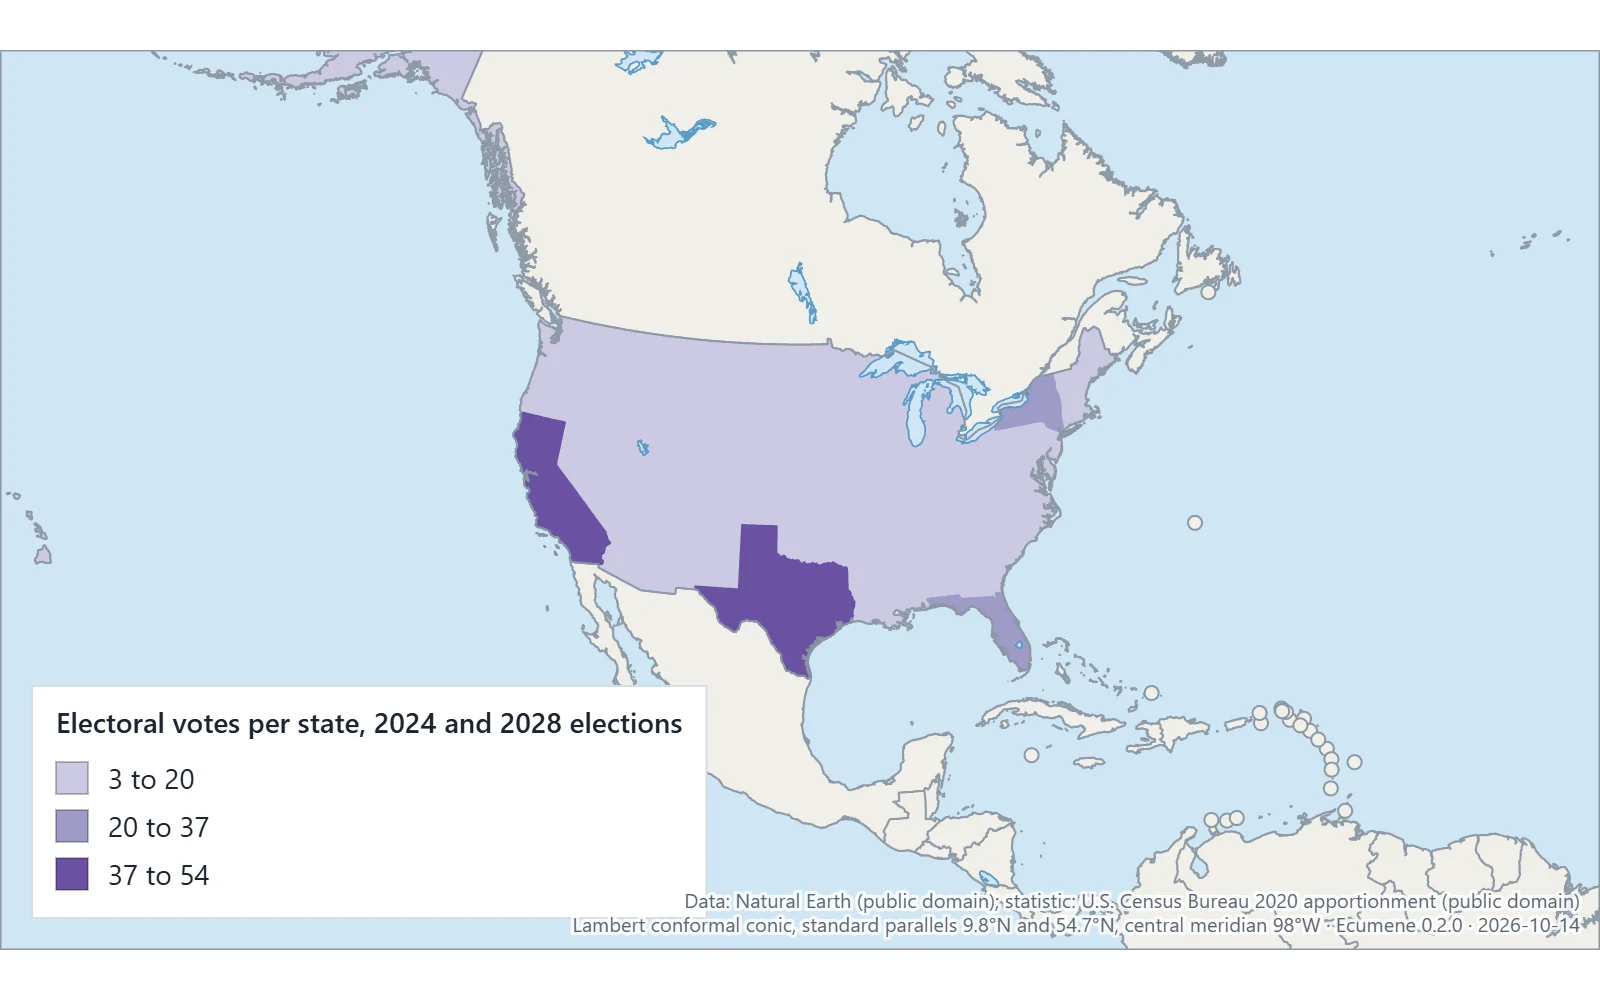
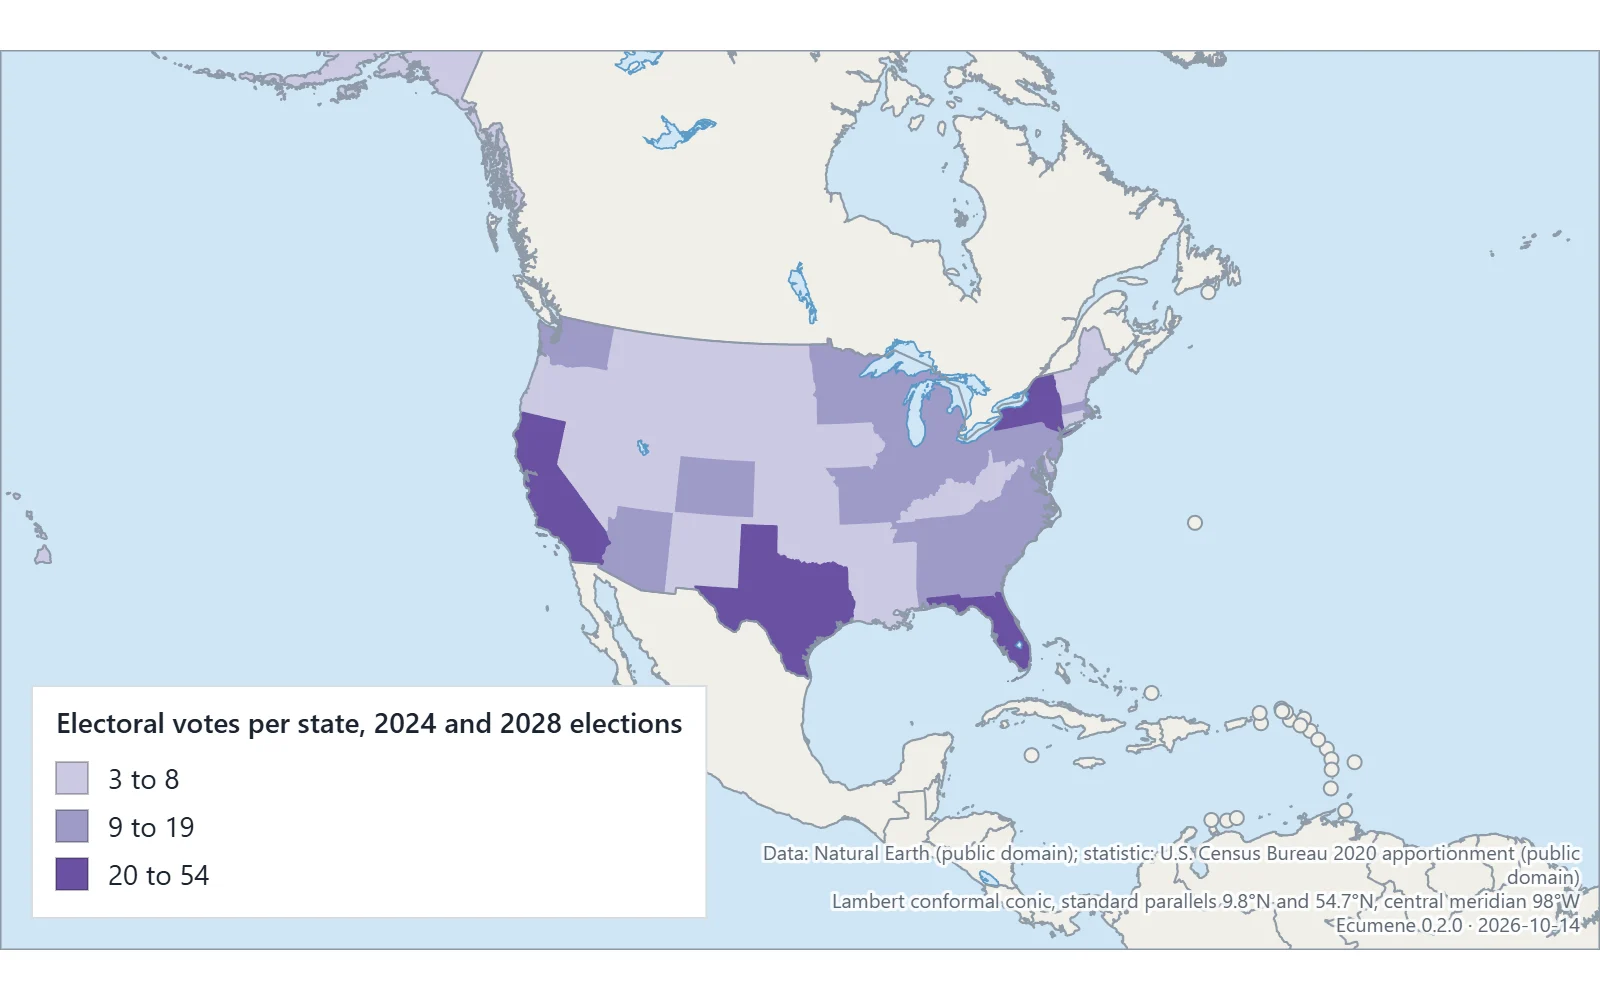
Gallery: electoral and life expectancy examples in natural breaks

diff --git a/scripts/make_examples.js b/scripts/make_examples.js
@@ -88,10 +88,10 @@ const EXAMPLES = {
     await view(page, [3.2, -54.4], 8.2);
     return { mode: 'draw', export: { proj: 'lcc', area: 'screen', width: 800 } };
   },
-  // Electoral votes per state (2020 apportionment, checked against the Census table): a statistic, five classes.
+  // Electoral votes per state (2020 apportionment, checked against the Census table): a statistic, three classes by natural breaks.
   async electoral(page) {
     // three equal classes give whole-number edges (3 to 20, 20 to 37, 37 to 54)
-    await statistic(page, 'ev', null, 'Purples', 'equal', 3);
+    await statistic(page, 'ev', null, 'Purples', 'jenks', 3);
     await view(page, [98, -38.5], 2.35);
     return { mode: 'data', export: { proj: 'lcc', area: 'screen', width: 800 } };
   },
@@ -219,7 +219,7 @@ const EXAMPLES = {
 
 const Ecu = require('../src/groups.js');
 /** Color by a statistic in the Data panel: choose it, pick the year ('auto' = the default) and the scale. */
-async function statistic(page, value, year, scale, method = 'equal', classes = 5) {
+async function statistic(page, value, year, scale, method = 'jenks', classes = 5) {
   await mode(page, 'data');
   await page.selectOption('#dst', value);
   if (year) {

diff --git a/HANDOFF.md b/HANDOFF.md
@@ -72,7 +72,7 @@ Conventions: modules share state only through `app`; UI panels re-render on even
 - Continents follow the UN Statistics Division's M49 classification (Ari's decision, 14 Oct 2026: broad diplomatic and geographic consensus over intuition). M49 has one Americas region; its sub-regions split it here (South America is its South America intermediate region; Northern America, Central America and the Caribbean are North America). `scripts/check_groups.js` compares every map place that has an ISO code with M49 (247 agree). Changes made to match it: Cyprus to Asia (Western Asia in M49, though an EU member), with Northern Cyprus, the buffer zone, Akrotiri and Dhekelia, which M49 does not list but which share the island; South Georgia to South America, Heard and McDonald Islands to Oceania, the French Southern and Antarctic Lands to Africa, so Antarctica is the continent alone. Places M49 does not list keep the continent of the land around them: Kosovo, Taiwan, Somaliland, Siachen Glacier, the Spratly Is., Scarborough Reef, Bajo Nuevo and Serranilla Banks, Clipperton, the Coral Sea Is. and the Indian Ocean Territories. Natural Earth's own `CONTINENT` field was also compared: it leaves many island territories as "Seven seas (open ocean)" with no continent, so it is not used. The UN page's terms allow personal use only; the classification is used as a fact and nothing is copied from the page.
 - Statistics (#13): the Data panel's Statistic menu. World Bank indicators (World Development Indicators, CC BY 4.0, 12 listed in `scripts/sources/stat-worldbank.json`, each with its own code, title and who collected it; all are CC BY 4.0 in the World Bank's series metadata) are fetched live from `api.worldbank.org` in the browser when one is chosen, one request for the last 15 years. The editor makes requests to other sites only on a person's choice: this one, and reading a Google Sheets link (see Your own data); the panel says so. Nothing is bundled and the build needs no update. The map saves what it used, `st: {k:'wb', c: code, y: year or 'latest', t: date fetched, v: {ISO3: value}, ys?: {ISO3: year}}` (values rounded to 7 significant digits), so reopening or sharing a map code never changes its numbers and never touches the network; "Fetch again" is the only refresh. Year menu: the default is the latest year where at least 90% of the best year's countries have a value; "Most recent for each country" uses each country's latest value and the legend title and credit say "most recent available, 2021–2024". Matching uses ISO alpha-3 codes: `src/iso.js` (generated by `scripts/build_iso.js` from Natural Earth's admin-0 table and committed) maps each code to the map country's id, which is its ISO numeric code, plus the overseas parts split from France and the Netherlands; Kosovo (World Bank code XKX) is matched by name; Ashmore and Cartier Is. shares Australia's numeric id and takes no code. A country without a value is painted `NO_DATA_PAINT` (grey with fine dots) with a "No data" legend entry unless "Mark countries with no data" is off (saved as `ds.nd`). The World Bank's figure for France includes its overseas departments, so French Guiana and the others show no data while France's value still counts them; Taiwan, Western Sahara and some others have no World Bank data. A statistic colors the whole map: what was painted before goes (one undo step; undo restores the statistic and legend title). Pasting rows, or Clear all colors, drops the statistic and its credit. Exports credit it ("World Bank, World Development Indicators, NY.GDP.PCAP.CD, 2023, CC BY 4.0", plus the date fetched and the collecting organisation in the SVG `<desc>`). US electoral votes are bundled in `stats.js` (House seats from the 2020 Census apportionment plus two senators, DC 3; valid for the 2024 and 2028 presidential elections; the 2030 census sets the electors from 2032) and paint Natural Earth's US units; Maine and Nebraska's district votes are not shown. Democracy indices are left out for licence reasons (V-Dem is CC BY-SA, the EIU Democracy Index and Freedom House are not openly licensed). The browser tests answer the World Bank from a fixture so CI needs no network; the live API was checked by hand on 14 Oct 2026. The home page's GDP example is made with this feature: `scripts/make_examples.js gdp` fetches the 2022 series live, and the example file keeps the values with the fetch date (14 Oct 2026); it replaced a hand-kept CSV that no longer matched the World Bank's current series. The electoral-vote seat table was first typed from memory; on 14 Oct 2026 `node scripts/check_electoral.js` compared all 50 states with the Census Bureau's apportionment Table 1 (SHA-256 recorded in `stat-us-electoral.json`) and every number matched, and a unit test pins the table's fingerprint (run the script and update the fingerprint if it ever changes). The rule (seats plus two, DC 3, 538 in all) is confirmed by usa.gov; the National Archives page could not be reached from the checking machine, so the per-state electoral counts have no second per-state source. An earlier draft said the table held for 2032 too; that was wrong (the 2030 census applies from 2032).
 - Your own data (#14): paste a table (from a spreadsheet, with or without a header), open a .csv, .tsv, .txt or .xlsx file, or load a Google Sheets link. Sheets links are turned into the sheet's CSV address, keeping the tab (`export?format=csv&gid=` for a sheet shared as "anyone with the link", `pub?output=csv` for one published to the web); Google allows the export to be read from the browser (checked 14 Oct 2026 with a public sheet; the published-to-web form was not tested against a real sheet). A sheet that is not shared answers with a sign-in page, which is reported as such. The preview guesses the column of places (most cells recognised: names, aliases, ISO alpha-3 or alpha-2 codes; `src/iso.js` now has `ISO2_3`), the column of values (the rightmost mostly-numeric one, so the latest year in a table of years) and the header row; all three can be changed, and places not recognised are listed with "did you mean". The values decide the coloring: numbers become classes with the scale settings, #hex colors are used as they are, words become categories in the paint set's colors (no more categories than the set has colors). Coloring replaces the map's colors in one undo step, like a statistic, and marks countries without a value as No data unless that is switched off; the heading of the value column becomes the legend title unless one was typed. The rows used (only the two columns), where they came from and when, and the Source field are saved with the map as `im` (`table.js` `importRecord`, checked by `validImport`), so reopening or sharing a map never reads the file or sheet again; Load the sheet again to refresh. Exports credit it: the Source as given, marked "Not checked by Ecumene", or, with no source, "supplied by the map's author, not checked by Ecumene". Up to 5,000 rows and 10 MB files. Countries only: matching states, counties or other subdivisions by name or code is a possible follow-up. The paste box replaced the old two-column reader (`Ecu.parseData` is kept for its tests); pasted rows now also mark the remaining countries as No data, so the old "colour by data" test sees six legend entries. Undo now also restores the legend labels when it goes back past a coloring by data.
-- Classes (Data panel's method menu): natural breaks is the default for maps colored from now on (Ari's "go", 14 Oct 2026); quantiles and equal intervals stay in the menu, and saved maps keep the method they were saved with (`ds.m`, a missing or unknown method reads as natural breaks). Natural breaks groups values so each class is as alike as possible: on the electoral votes map, equal intervals put 40 states in the lowest class, natural breaks 25 (3 to 7 votes). Inner edges are rounded to two significant figures so the legend reads cleanly; a value equal to an edge belongs to the class below it. Diverging scales still use equal steps either side of their centre.
+- Classes (Data panel's method menu): natural breaks is the default for maps colored from now on (Ari's "go", 14 Oct 2026); quantiles and equal intervals stay in the menu, and saved maps keep the method they were saved with (`ds.m`, a missing or unknown method reads as natural breaks). Natural breaks groups values so each class is as alike as possible: on the electoral votes map in five classes, equal intervals put 40 states in the lowest class, natural breaks 25 (3 to 7 votes). The gallery's electoral and life expectancy examples were regenerated with natural breaks (the same data and fetch date); the GDP and under-5 mortality examples keep quantiles, chosen for their very uneven values. Inner edges are rounded to two significant figures so the legend reads cleanly; a value equal to an edge belongs to the class below it. Diverging scales still use equal steps either side of their centre.
 - Hover tag: under the place name, what the map says about it. A statistic's value and year ("Population: 68,170,228 (2023)", or "No data"), your own data's value with its column heading, the legend name of a painted color, and on election maps a unit's seats ("Democratic · 54 electoral votes") while the seat counter shows that election. Screen readers get the same text (`#sr`). Painted units are found under the pointer outside Subdivisions mode too, so pointing at Texas on an electoral map says "Texas", not "United States of America".
 
 - Other subdivision layers (#37): each comes from an entry in `scripts/sources/` (publisher, edition, licence, exact credit, download URL and SHA-256, which fields hold code, name and groupings). `scripts/fetch_sources.js` downloads the raw file from the mirror release `data-sources` (checksum-named assets, never replaced; `--origin` fetches from the publisher, records the new checksum and stages the file in `data/src/mirror/` for `gh release upload data-sources`). `scripts/build_layers.js` fits every unit to the Natural Earth country outline (units wholly inside are kept as published; others are cut back to the coast, dropping pieces under 0.5 km²), orients polygons for d3 by area (ArcGIS winds the other way), and writes `data/layers/<id>/<file>.json` plus `data/layers/index.json` (per country: id, menu name, unit word, edition, file, count, groupings, credit). The editor reads the index at start; a country with several layers shows "Layer for <country>" in the paint panel and in the outline picker. Codes of a layer's units carry its id (`gb-wpc-2024:E14001063`), so saved maps (`u`) need no new field and Natural Earth codes are unchanged; exact outlines save the layer as `ref.y`. A country is painted with one layer at a time: its layer is that of its paint, else the one chosen; switching clears the other layer's paint after asking, as one undo step. Exports credit each layer used (title, edition, URL, credit in `<desc>`; the short credit on the source note). The README sources table is generated from `scripts/sources` (`node scripts/fetch_sources.js --readme`) and a test checks it. A source can have several `parts` (the UK county layers join Great Britain from OS Boundary-Line and Northern Ireland from OSNI); a part's download can `extract` one Shapefile layer from a zip archive (OS ships Boundary-Line as one 737 MB archive: `--origin` keeps it in `data/src/cache/`, converts the layer with mapshaper and stores gzipped GeoJSON, so the mirror holds 18 MB). Fields can merge pieces by name (`dissolve`: OS splits Carnarvonshire into 8, Tailte Éireann a constituency into dozens), tidy names (`case: "title"` for names in capitals, `strip` a regex such as " Council$" or a seat count), keep a seat count as the unit's `s` (`seats`: a regex whose first group is the number, read from the name field before `strip`; the Dáil layer has it, 174 seats in 43 constituencies, and the build prints the total), use `"@slug"` codes for name-only data, and take groupings from a field, from the code's first letter, or from the Natural Earth admin-1 unit under the unit's centre (`"from": "ne-admin1"`). `simplify` passes mapshaper options (150 m for full-detail sources). The build stops if a unit loses its shape, and where one unit lies inside another in the source (Tailte Éireann's generalised Cork County covers Cork City) it cuts the smaller out of the larger and says so; any other overlap stops it. Layers (#10): UK Westminster constituencies 2024 (650), counties and unitary authorities December 2025 (218, ONS), ceremonial counties (97: England, Wales's preserved counties, Scotland's lieutenancy areas, Northern Ireland's six counties since its county boroughs are not in the open data), historic counties (94, 1888/1889 plus Northern Ireland's six); Ireland counties (26), local authority areas (31) and Dáil constituencies 2023 (43), all Tailte Éireann. Each file is 114-374 KB and covers 98.8-99.4% of its country on the map. Postcode areas are left out: no current open boundaries exist (see #10). A part can also `filter` features (`{field, in}` or `{field, notIn}`: the Census county file has the territories, which are their own countries on the map) and `lookup` field values (state FIPS codes to names), and a name can be a template of fields (`"{STATEFP} {CD119FP}"`) with `replace` rules ("Alaska 00" becomes "Alaska (at-large)"). US layers (#11, U.S. Census Bureau 2024 cartographic boundaries 1:5M, public domain): counties and equivalents of the 50 states and DC (3,144, grouped by state, 1,974 KB, so its source sets `maxKB` 2000), congressional districts of the 119th Congress (436 with DC's delegate), and Puerto Rico's 78 municipios (Natural Earth has none). Layer files are quantised to about 1e-4° whatever their extent (a fixed 1e5 steps across the US, nearly 360° wide because of the Aleutians, moved Alaska's fjord coasts off the land). In headless tests the US counties take 5-7 s to show because SwiftShader renders each frame slowly; on a real GPU they are ready in about 220 ms with 5 ms frames.
